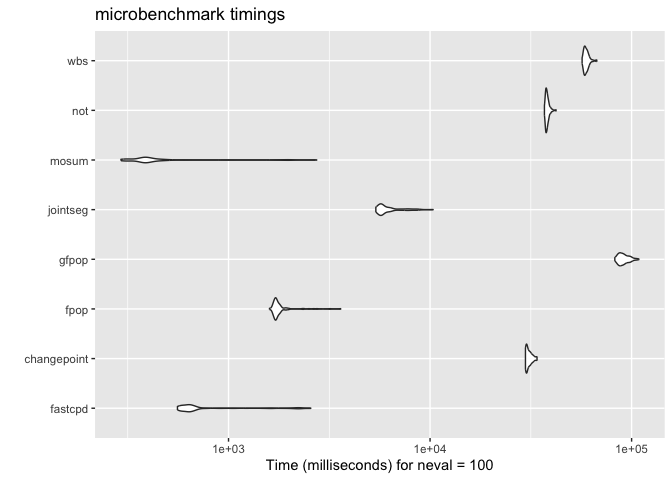
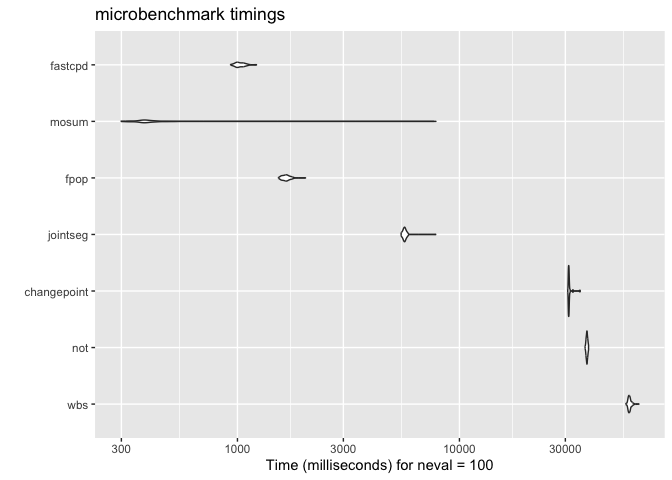
Update fastcpd 0.16.3
*   Move `fastcpd` to the top in the README.

diff --git a/README.md b/README.md
@@ -101,16 +101,6 @@ plot(result)
 
 ![](man/figures/README-ar3-1.png)<!-- -->
 
-<details open>
-<summary>
-Note
-</summary>
-
-`r.progress = FALSE` is used to suppress the progress bar. Users are
-expected to see the progress bar when running the code by default.
-
-</details>
-
 ### Comparison
 
 ``` r
@@ -119,24 +109,16 @@ set.seed(1)
 n <- 5 * 10^6
 mean_data <- c(rnorm(n / 2, 0, 1), rnorm(n / 2, 50, 1))
 ggplot2::autoplot(microbenchmark(
-  fastcpd = fastcpd::fastcpd.mean(mean_data, r.progress = FALSE, cp_only = TRUE, variance_estimation = 1),
-  changepoint = changepoint::cpt.mean(mean_data, method = "PELT"),
-  fpop = fpop::Fpop(mean_data, 2 * log(n)),
-  gfpop = gfpop::gfpop(
-    data = mean_data,
-    mygraph = gfpop::graph(
-      penalty = 2 * log(length(mean_data)) * gfpop::sdDiff(mean_data) ^ 2,
-      type = "updown"
-    ),
-    type = "mean"
-  ),
-  jointseg = jointseg::jointSeg(mean_data, K = 12),
-  mosum = mosum::mosum(c(mean_data), G = 40),
+  wbs = wbs::wbs(mean_data),
   not = not::not(mean_data, contrast = "pcwsConstMean"),
-  wbs = wbs::wbs(mean_data)
+  changepoint = changepoint::cpt.mean(mean_data, method = "PELT"),
+  jointseg = jointseg::jointSeg(mean_data, K = 12),
+  fpop = fpop::Fpop(mean_data, 2 * log(n)),
+  mosum = mosum::mosum(c(mean_data), G = 40),
+  fastcpd = fastcpd::fastcpd.mean(mean_data, r.progress = FALSE, cp_only = TRUE, variance_estimation = 1)
 ))
-#> Warning in microbenchmark(fastcpd = fastcpd::fastcpd.mean(mean_data, r.progress
-#> = FALSE, : less accurate nanosecond times to avoid potential integer overflows
+#> Warning in microbenchmark(wbs = wbs::wbs(mean_data), not = not::not(mean_data,
+#> : less accurate nanosecond times to avoid potential integer overflows
 ```
 
 ![](man/figures/README-time-comparison-small-1.png)<!-- -->
@@ -149,24 +131,22 @@ mean_data <- c(rnorm(n / 2, 0, 1), rnorm(n / 2, 50, 1))
 system.time(fastcpd::fastcpd.mean(mean_data, r.progress = FALSE, cp_only = TRUE, variance_estimation = 1))
 #>    user  system elapsed 
 #>  11.753   9.150  26.455 
-system.time(changepoint::cpt.mean(mean_data, method = "PELT"))
-#>    user  system elapsed 
-#>  32.342   9.681  66.056 
-system.time(fpop::Fpop(mean_data, 2 * log(n)))
-#>    user  system elapsed 
-#>  35.926   5.231  58.269 
 system.time(mosum::mosum(c(mean_data), G = 40))
 #>    user  system elapsed 
 #>   5.518  11.516  38.368 
+system.time(fpop::Fpop(mean_data, 2 * log(n)))
+#>    user  system elapsed 
+#>  35.926   5.231  58.269 
+system.time(changepoint::cpt.mean(mean_data, method = "PELT"))
+#>    user  system elapsed 
+#>  32.342   9.681  66.056 
 ggplot2::autoplot(microbenchmark(
-  fastcpd = fastcpd::fastcpd.mean(mean_data, r.progress = FALSE, cp_only = TRUE, variance_estimation = 1),
   changepoint = changepoint::cpt.mean(mean_data, method = "PELT"),
   fpop = fpop::Fpop(mean_data, 2 * log(n)),
   mosum = mosum::mosum(c(mean_data), G = 40),
+  fastcpd = fastcpd::fastcpd.mean(mean_data, r.progress = FALSE, cp_only = TRUE, variance_estimation = 1),
   times = 10
 ))
-#> Warning in microbenchmark(fastcpd = fastcpd::fastcpd.mean(mean_data, r.progress
-#> = FALSE, : less accurate nanosecond times to avoid potential integer overflows
 ```
 
 ![](man/figures/README-time-comparison-large-1.png)<!-- -->

diff --git a/NEWS.md b/NEWS.md
@@ -1,3 +1,7 @@
+# fastcpd 0.16.3
+
+*   Move `fastcpd` to the top in the README.
+
 # fastcpd 0.16.2
 
 *   Remove natural language support.